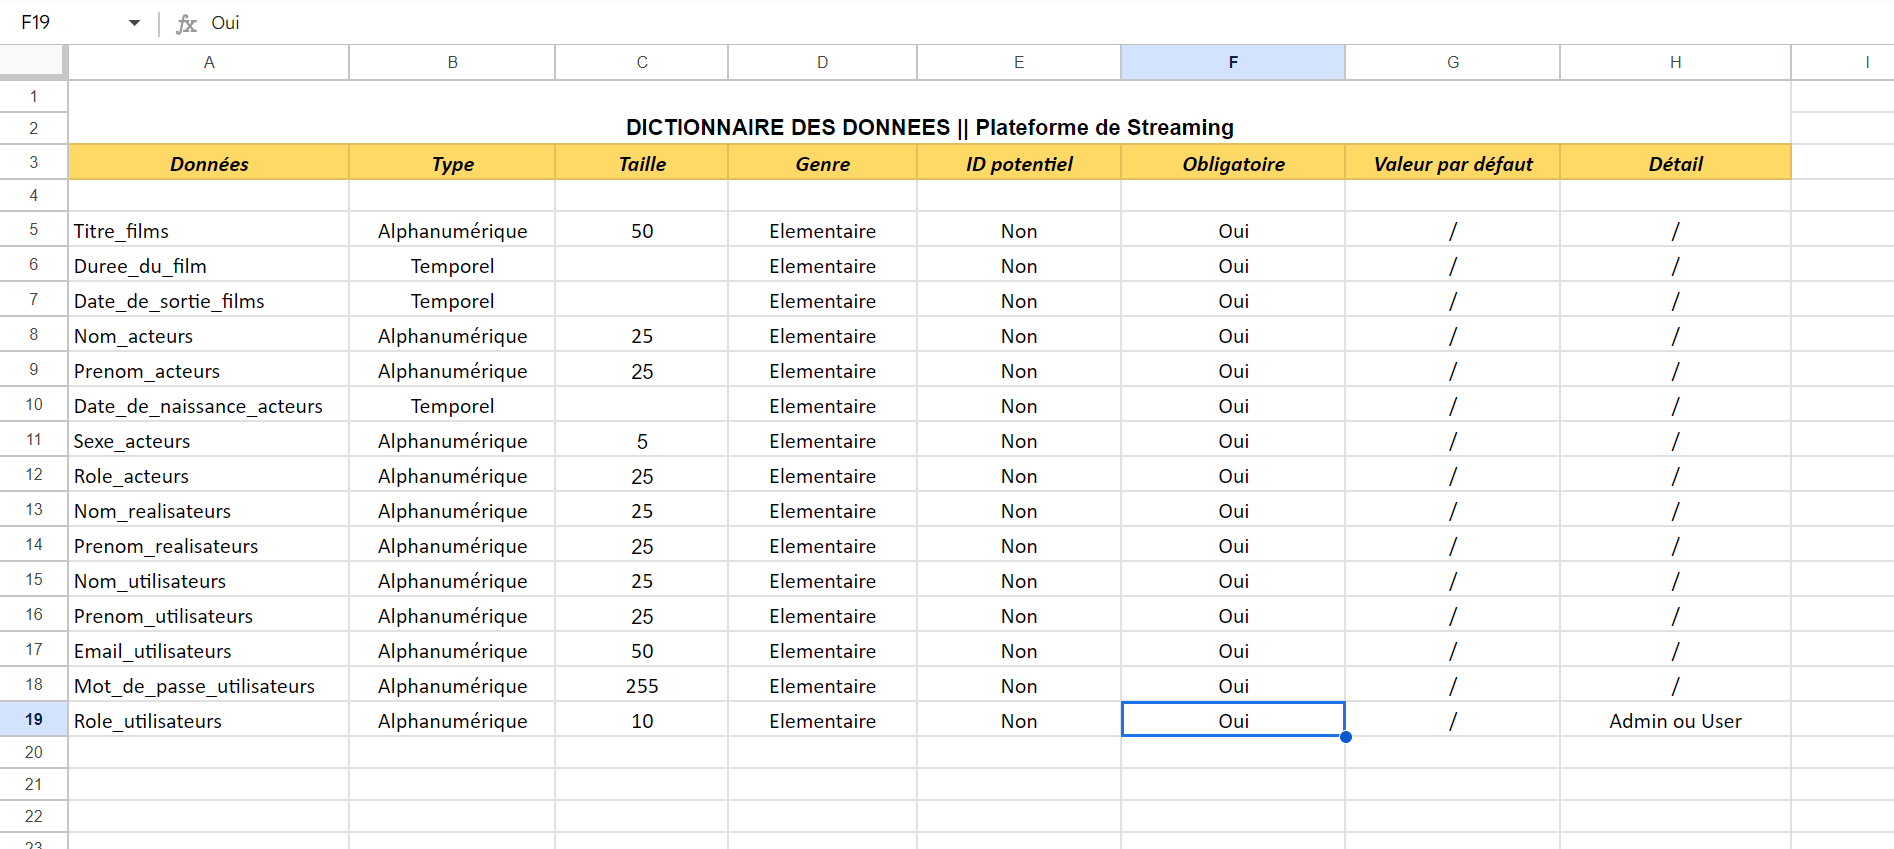
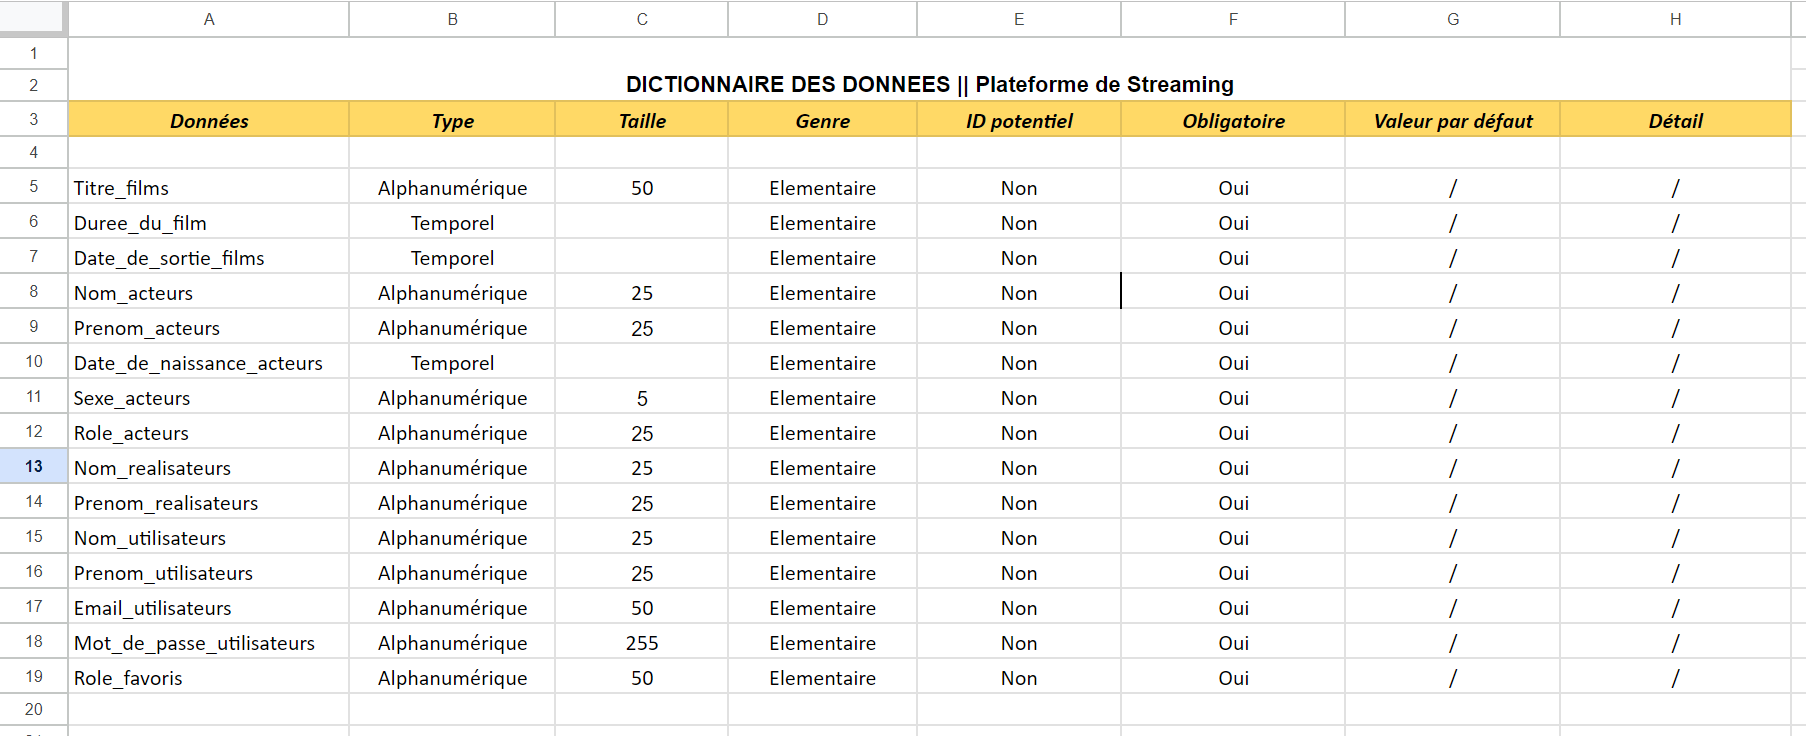
fix(Documents/create_tables.md, insert_data.md, MCD, Dico): modif structure for role like for users

Changed region(s): [[0.0, 0.0, 1.0, 1.0]]

diff --git a/Documents/create_tables.md b/Documents/create_tables.md
@@ -27,26 +27,26 @@ CREATE TABLE IF NOT EXISTS utilisateurs(
    Nom VARCHAR(25) NOT NULL,
    Prenom VARCHAR(25) NOT NULL,
    Email VARCHAR(50) NOT NULL,
-   Mot_de_passe VARCHAR(255) NOT NULL,
-   Role VARCHAR(10) NOT NULL
+   Mot_de_passe VARCHAR(255) NOT NULL
 );
 
 CREATE TABLE IF NOT EXISTS jouer(
    id INT PRIMARY KEY AUTO_INCREMENT,
-   id_Films INT REFERENCES films(id),
-   id_Acteurs INT REFERENCES acteurs(id),
+   id_Films INT NOT NULL REFERENCES films(id),
+   id_Acteurs INT NOT NULL REFERENCES acteurs(id),
    Role VARCHAR(25) NOT NULL
 );
 
 CREATE TABLE IF NOT EXISTS realiser(
    id INT PRIMARY KEY AUTO_INCREMENT,
-   id_Films INT REFERENCES films(id),
-   id_Realisateurs INT REFERENCES realisateurs(id)
+   id_Films INT NOT NULL REFERENCES films(id),
+   id_Realisateurs INT NOT NULL REFERENCES realisateurs(id)
 );
 
 CREATE TABLE IF NOT EXISTS favoris(
    id INT PRIMARY KEY AUTO_INCREMENT,
-   id_Films INT REFERENCES films(id),
-   id_Utilisateurs INT REFERENCES utilisateurs(id)
+   id_Films INT  NOT NULL REFERENCES films(id),
+   id_Utilisateurs INT NOT NULL REFERENCES utilisateurs(id),
+   Role VARCHAR(50) NOT NULL
 );
 ```

diff --git a/Documents/insert_data.md b/Documents/insert_data.md
@@ -56,15 +56,16 @@ VALUES
 
 
 
-INSERT INTO utilisateurs (Nom, Prenom, Email, Mot_de_passe, Role)
-VALUES ('Pagies', 'Theotime', 'theotime@gmail.com', SHA2('motdepasse123', 256), 'ADMIN'),
-       ('Pinkman', 'Jesse', 'jesse@gmail.com', SHA2('motdepasse456', 256), 'USER');
+INSERT INTO utilisateurs (Nom, Prenom, Email, Mot_de_passe)
+VALUES ('Pagies', 'Theotime', 'theotime@gmail.com', SHA2('motdepasse123', 256)),
+       ('Pinkman', 'Jesse', 'jesse@gmail.com', SHA2('motdepasse456', 256));
 
 
-INSERT INTO favoris (id_Films, id_Utilisateurs)
-VALUES (1, 1),
-	(2, 1),
-       (5, 1),
-       (3, 2),
-       (2, 2);
+INSERT INTO favoris (id_Films, id_Utilisateurs, Role)
+VALUES (1, 1, 'Columbus'),
+	(2, 1, 'Vincent Vega'),
+       (5, 1, 'Cobb'),
+       (3, 2, 'Han solo'),
+       (3, 2, 'Dark Vador'),
+       (2, 2, 'Vincent Vega');
 ```

diff --git a/Documents/requête.md b/Documents/requête.md
@@ -43,14 +43,14 @@ WHERE acteurs.id = 4;
 
 ```sql
 INSERT INTO films (Titre, Duree_du_film, Date_de_sortie)
-VALUES ('Forrest Gump', '02:20:00', '1994-10-05');
+VALUES ('Les Affranchis', '02:26:00', '1990-09-12');
 ```
 
 ### requête 6 :
 
 ```sql
-INSERT INTO acteurs (Nom, Prenom, Date_de_naissance, Sexe, Role)
-VALUES ('Hanks', 'Tom', '1956-07-09', 'M', 'Principal');
+INSERT INTO acteurs (Nom, Prenom, Date_de_naissance, Sexe)
+VALUES ('Hanks', 'Tom', '1956-07-09', 'M');
 ```
 
 ### requête 7 : 
